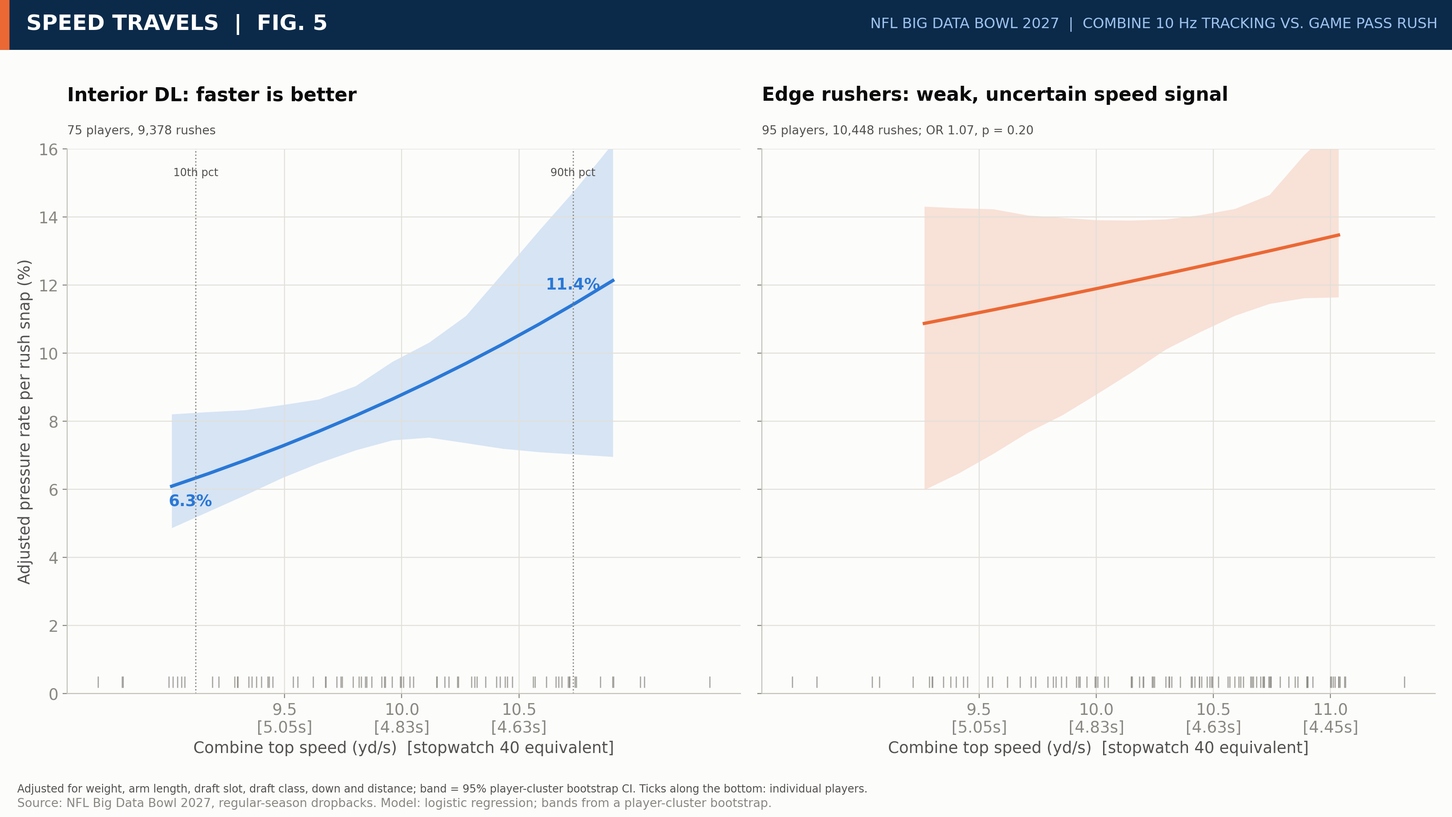
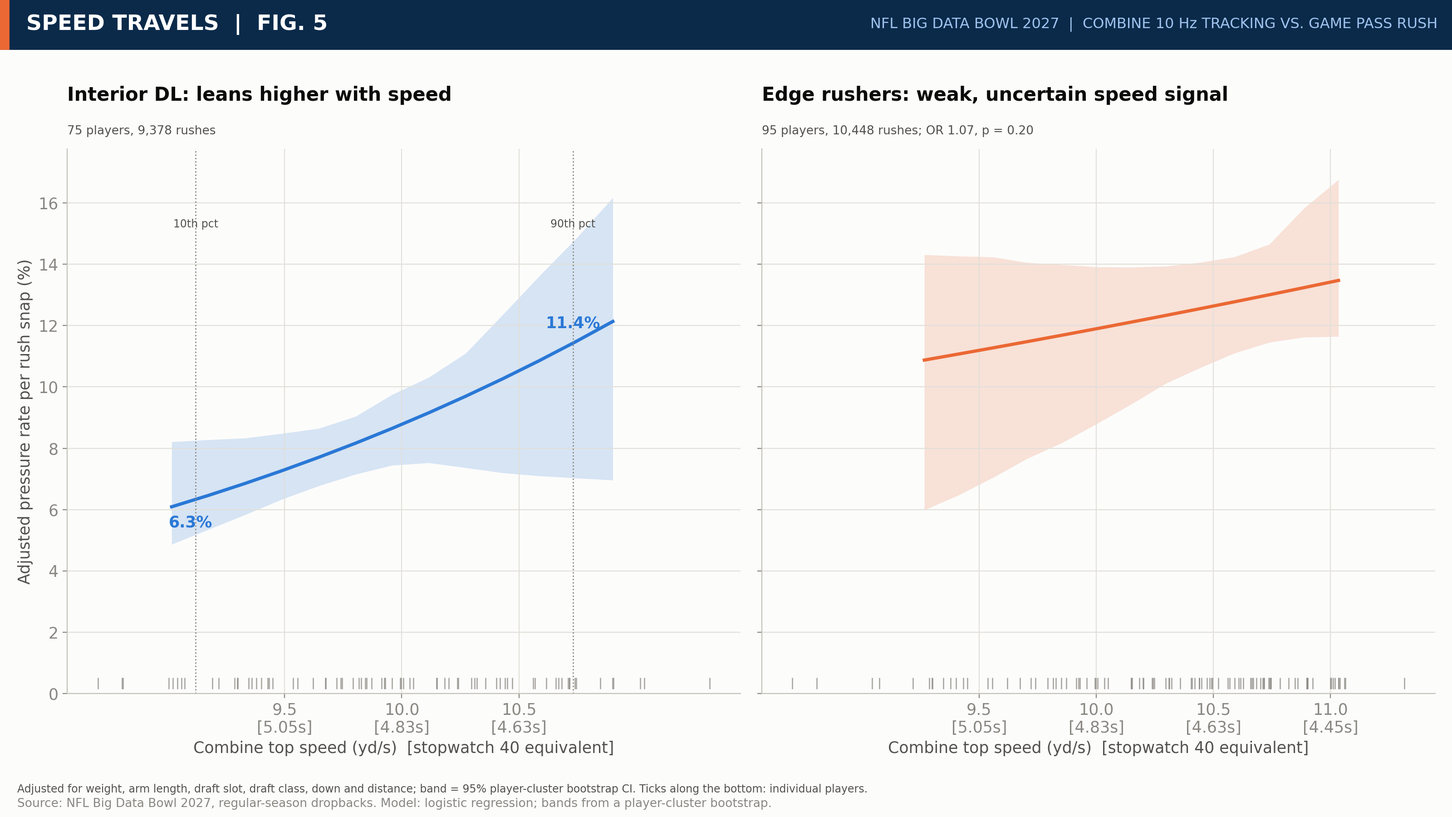
v29: get-off out-of-class test (E23, falsified, reported), consistent ratio bootstrap, fixes from third blind read
Claude-Session: https://claude.ai/code/session_01NYNpUw5TLCT8fUrXZ4q2c3

diff --git a/notebook/speed_travels.py b/notebook/speed_travels.py
@@ -789,12 +789,15 @@ try:
     bb_ = gi_.params[ip_].values; VV_ = gi_.cov_params().loc[ip_, ip_].values; W_ = float(bb_ @ np.linalg.solve(VV_, bb_))
     wc_["interaction_wald_p"] = float(_chi2.sf(W_, len(ip_))); wc_["interaction_df"] = len(ip_)
     # Pooled player-cluster bootstrap of the headline interior OR (same controls as the main model, plain logit per resample)
-    ids_p = IL.nfl_id.unique(); gp_ = {i: np.where(IL.nfl_id.values == i)[0] for i in ids_p}; rng_p = np.random.default_rng(29); bp_ = []
+    ids_p = IL.nfl_id.unique(); gp_ = {i: np.where(IL.nfl_id.values == i)[0] for i in ids_p}; rng_p = np.random.default_rng(29); bp_ = []; rq_ = []
     for _ in range(100 if FAST else 1000):
         Db = IL.iloc[np.concatenate([gp_[i] for i in rng_p.choice(ids_p, len(ids_p))])]
-        try: bp_.append(float(smf.logit(f"pres ~ vs + {b}", data=Db).fit(disp=0).params["vs"]))
+        try:
+            fb_ = smf.logit(f"pres ~ vs + {b}", data=Db).fit(disp=0); bp_.append(float(fb_.params["vs"]))
+            rq_.append(float(fb_.predict(Db.assign(vs=(q90 - 10.0) / 0.5)).mean() / fb_.predict(Db.assign(vs=(q10 - 10.0) / 0.5)).mean()))
         except Exception: pass
-    res["pooled_boot"] = dict(OR_lo=float(np.exp(np.percentile(bp_, 2.5))), OR_hi=float(np.exp(np.percentile(bp_, 97.5))), n=len(bp_), share_pos=float(np.mean(np.array(bp_) > 0)))
+    res["pooled_boot"] = dict(OR_lo=float(np.exp(np.percentile(bp_, 2.5))), OR_hi=float(np.exp(np.percentile(bp_, 97.5))), n=len(bp_), share_pos=float(np.mean(np.array(bp_) > 0)),
+                              ratio_lo=float(np.percentile(rq_, 2.5)), ratio_hi=float(np.percentile(rq_, 97.5)))
     print("pooled player bootstrap:", res["pooled_boot"])
     try:
         # Pre-specified continuous outcomes (E21): per-snap get-off time (primary) and 1-s displacement (secondary).
@@ -833,6 +836,26 @@ try:
             f_, s_ = (best[1], best[2]) if best[1].vpk > best[2].vpk else (best[2], best[1])
             res["getoff_pair"] = {k_: {c_: (v_.item() if hasattr(v_, "item") else v_) for c_, v_ in r_[["display_name", "nfl_position", "draft_round", "pick", "dy", "w", "vpk", "n", "go", "pres"]].items()} for k_, r_ in (("fast", f_), ("slow", s_))}
             res["getoff_pair"]["n_candidates"] = int(len(cand)); print("illustrative pair:", res["getoff_pair"])
+        # E23 (pre-registered): does speed predict get-off for a draft class the model never saw? Plus a survivorship check.
+        lg = {}; Dm2 = ILm.copy(); Dm2["miss"] = Dm2.player_get_off.isna().astype(int); lg["missing_share"] = float(Dm2.miss.mean())
+        try: lg["missing_or"] = orci(G(f"miss ~ vs + {b}", Dm2))
+        except Exception as e_m: fail("getoff_missing", e_m)
+        Dg = Dm2.dropna(subset=["player_get_off"]).reset_index(drop=True); dd_rows = []
+        for cls in sorted(Dg.dy.unique()):
+            tr_g, te_g = Dg[Dg.dy != cls], Dg[Dg.dy == cls]
+            f0_ = smf.ols(f"player_get_off ~ {b_noclass}", tr_g).fit(); f1_ = smf.ols(f"player_get_off ~ vs + {b_noclass}", tr_g).fit()
+            dd_rows.append(pd.DataFrame({"nfl_id": te_g.nfl_id.values, "dy": cls, "y": te_g.player_get_off.values, "p0": f0_.predict(te_g).values, "p1": f1_.predict(te_g).values}))
+        HO = pd.concat(dd_rows, ignore_index=True); HO["d"] = (HO.y - HO.p0) ** 2 - (HO.y - HO.p1) ** 2
+        lg["mse_gain"] = float(HO.d.mean()); lg["mse0"] = float(((HO.y - HO.p0) ** 2).mean()); lg["mse_gain_pct"] = float(100 * HO.d.mean() / ((HO.y - HO.p0) ** 2).mean())
+        ids_h = HO.nfl_id.unique(); gh_ = {i: np.where(HO.nfl_id.values == i)[0] for i in ids_h}; rng_h = np.random.default_rng(37); bh_ = []
+        dvals = HO.d.values
+        for _ in range(100 if FAST else 1000): bh_.append(float(dvals[np.concatenate([gh_[i] for i in rng_h.choice(ids_h, len(ids_h))])].mean()))
+        lg["mse_gain_ci"] = [float(np.percentile(bh_, 2.5)), float(np.percentile(bh_, 97.5))]; lg["mse_gain_pct_ci"] = [100 * x_ / lg["mse0"] for x_ in lg["mse_gain_ci"]]
+        lg["by_class"] = {str(int(c_)): float(g_.d.mean()) for c_, g_ in HO.groupby("dy")}
+        PH = HO.groupby("nfl_id").agg(n=("y", "size"), y=("y", "mean"), p0=("p0", "mean"), p1=("p1", "mean")); PH = PH[PH.n >= 50]
+        lg["player_rho0"] = float(spearmanr(PH.y, PH.p0)[0]); lg["player_rho1"] = float(spearmanr(PH.y, PH.p1)[0]); lg["player_n"] = int(len(PH))
+        gp_sd = gp[gp.n >= 100].go.std(); lg["between_player_sd_s"] = float(gp_sd); lg["n_players_100"] = int((gp.n >= 100).sum())
+        res["getoff_loco"] = lg; print("get-off out of class:", json.dumps(lg, indent=1, default=float))
         res["continuous_by_class"] = cbc; print("continuous outcomes by class:", json.dumps(cbc, indent=1, default=float))
     except Exception as e_c: fail("continuous_by_class", e_c)
     res["within_class"] = wc_; print(json.dumps(wc_, indent=1, default=float))
@@ -910,7 +933,7 @@ r, lo, hi = tr_["r_vpk_s10"]; ax[0].text(0.04, 0.95, f"within interior r = {tr_[
 headline(ax[0], "Top-end speed shows up in the rush", "Combine 40 top speed vs. in-game speed 1.0 s into a pass rush; dot size = game rushes")
 ax[1].scatter(dd_.d_s10, dd_.s_10, s=np.clip(dd_.n / 6, 14, 90), c=np.where(dd_.ipos > 0.5, BLUE, ORANGE), alpha=0.8, lw=0.8, edgecolor=SURF); ax[1].set_xlabel("Combine pass-rush drill: speed 1.0 s in (yd/s)")
 r, lo, hi = tr_["r_drill_s10"]; r_wo = tr_["r_drill_s10_trim"][0]; n_out = tr_["n_drill_outliers"]
-ax[1].text(0.97, 0.05, f"r = {r:.2f}  (95% CI {lo:.2f} to {hi:.2f})\nwithout {n_out} drill outlier(s) beyond 3 SD: r = {r_wo:.2f}\nn = {tr_['n_drill']} linemen", transform=ax[1].transAxes, ha="right", va="bottom", fontsize=10, fontweight="bold")
+ax[1].text(0.97, 0.05, f"r = {r:.2f}  (95% CI {lo:.2f} to {hi:.2f})\nwithout {n_out} drill outlier{'s' if n_out != 1 else ''} beyond 3 SD: r = {r_wo:.2f}\nn = {tr_['n_drill']} linemen", transform=ax[1].transAxes, ha="right", va="bottom", fontsize=10, fontweight="bold")
 headline(ax[1], "The drill's speed 1.0 s in tracks it more weakly", "Same in-game outcome vs. the Combine pass-rush drill's speed 1.0 s in")
 ax[1].legend(handles=[Line2D([0], [0], marker="o", ls="", color=BLUE, label="Interior DL"), Line2D([0], [0], marker="o", ls="", color=ORANGE, label="Edge")], loc="upper right"); fig.tight_layout(); save(fig, "fig3_translation.png")
 
@@ -950,9 +973,9 @@ dz = res["dose"]; co = res["forty_poly"]; fig, ax = plt.subplots(1, 2, figsize=(
 for a, lab, col in [(ax[0], "INT", BLUE), (ax[1], "EDGE", ORANGE)]:
     d = dz[lab]; g_ = np.array(d["grid"]); a.fill_between(g_, np.array(d["lo"]) * 100, np.array(d["hi"]) * 100, color=col, alpha=0.18, lw=0); a.plot(g_, np.array(d["mid"]) * 100, color=col, lw=2.6)
     a.plot(d["speeds"], np.full(len(d["speeds"]), 0.35), "|", color=MUTED, ms=9, alpha=0.7); a.set_xlabel("Combine top speed (yd/s)  [stopwatch 40 equivalent]")
-    tk = np.array([9.0, 9.5, 10.0, 10.5, 11.0]); tk = tk[(tk >= g_.min() - 0.01) & (tk <= g_.max() + 0.01)]; a.set_xticks(tk); a.set_xticklabels([f"{t:.1f}\n[{np.polyval(co, t):.2f}s]" for t in tk]); a.set_ylim(0, 16)
+    tk = np.array([9.0, 9.5, 10.0, 10.5, 11.0]); tk = tk[(tk >= g_.min() - 0.01) & (tk <= g_.max() + 0.01)]; a.set_xticks(tk); a.set_xticklabels([f"{t:.1f}\n[{np.polyval(co, t):.2f}s]" for t in tk]); a.set_ylim(0, max(16, max(max(dz[k_]["hi"]) for k_ in dz) * 100 + 1))
 ax[0].set_ylabel("Adjusted pressure rate per rush snap (%)"); nn = res["n"]; pq = res["p10_p90"]
-headline(ax[0], "Interior DL: faster is better", f"{nn['int_players']} players, {nn['int_snaps']:,} rushes"); headline(ax[1], "Edge rushers: weak, uncertain speed signal", f"{nn['edge_players']} players, {nn['edge_snaps']:,} rushes; OR {res['table1']['edge_pressure']['OR']:.2f}, p = {res['table1']['edge_pressure']['p']:.2f}")
+headline(ax[0], "Interior DL: leans higher with speed", f"{nn['int_players']} players, {nn['int_snaps']:,} rushes"); headline(ax[1], "Edge rushers: weak, uncertain speed signal", f"{nn['edge_players']} players, {nn['edge_snaps']:,} rushes; OR {res['table1']['edge_pressure']['OR']:.2f}, p = {res['table1']['edge_pressure']['p']:.2f}")
 [ax[0].axvline(v_, color=MUTED, lw=1, ls=":") for v_ in (pq["v10"], pq["v90"])]; ax[0].text(pq["v10"], 15.2, "10th pct", ha="center", fontsize=8.5, color=INK2); ax[0].text(pq["v90"], 15.2, "90th pct", ha="center", fontsize=8.5, color=INK2)
 ax[0].annotate(f"{pq['rate10']*100:.1f}%", (pq["v10"], pq["rate10"] * 100), xytext=(-4, -22), textcoords="offset points", color=BLUE, fontweight="bold", ha="center")
 ax[0].annotate(f"{pq['rate90']*100:.1f}%", (pq["v90"], pq["rate90"] * 100), xytext=(0, 12), textcoords="offset points", color=BLUE, fontweight="bold", ha="center")

diff --git a/writeup/fill_writeup.py b/writeup/fill_writeup.py
@@ -2,6 +2,7 @@
 Usage: python3 fill_writeup.py results.json template.md out.md
 """
 import json, re, sys, math
+import pandas as pd
 import numpy as np
 from pathlib import Path
 
@@ -104,6 +105,19 @@ else:
     tok["PAIR_SENTENCE"] = ""
 _corr_keys = [k for k in res["robust"] if k.startswith(("IPW", "Heckman", "Sensor-cleaned", "Context-adjusted"))]
 tok["CORR_RANGE"] = f"{min(res['robust'][k]['OR'] for k in _corr_keys):.2f} and {max(res['robust'][k]['OR'] for k in _corr_keys):.2f}"
+_pbx = res.get("pooled_boot") or {}
+tok["RATIO_BOOT"] = f"{_pbx['ratio_lo']:.2f} to {_pbx['ratio_hi']:.2f}" if "ratio_lo" in _pbx else f"{res['p10_p90']['ratio_lo']:.2f} to {res['p10_p90']['ratio_hi']:.2f}"
+_gl = res.get("getoff_loco"); _gp = pd.DataFrame(res.get("getoff_players") or [])
+if _gl and _cg:
+    _ms = -_cg["all"]["b"] * _cg["all"]["raw_sd"] * 1000; tok["GETOFF_BSD"] = f"{_gl['between_player_sd_s']:.3f}"; tok["GETOFF_SHARE"] = f"{100 * _ms / 1000 / _gl['between_player_sd_s']:.0f}"
+    _lo, _hi = _gl["mse_gain_pct_ci"]; _pass = _lo > 0
+    tok["GETOFF_LOCO_SENTENCE"] = ((f"adding speed cuts held-out get-off error by {_gl['mse_gain_pct']:.1f}% (whole-player bootstrap {_lo:.1f}% to {_hi:.1f}%), "
+                                    if _pass else f"adding speed changes held-out get-off prediction error by {-_gl['mse_gain_pct']:+.1f}% (positive = worse; whole-player bootstrap {-_hi:+.1f}% to {-_lo:+.1f}%), ")
+                                   + f"plausibly because snap-to-snap noise swamps a {_ms:.0f} ms shift (a hypothesis we did not test); at the player level the rank correlation between predicted and actual get-off moves from {_gl['player_rho0']:.2f} to {_gl['player_rho1']:.2f} ({_gl['player_n']} held-out players with 50+ rushes; exploratory, no interval).")
+    tok["GETOFF_HOLD"] = "and for draft classes the model never saw" if _pass else "in the pooled data, though adding it does not improve get-off predictions for a held-out draft class"
+    tok["GETOFF_MISS_SENTENCE"] = ""
+else:
+    tok.update(GETOFF_BSD="", GETOFF_SHARE="", GETOFF_LOCO_SENTENCE="", GETOFF_HOLD="", GETOFF_MISS_SENTENCE="")
 pb_ = res.get("pooled_boot"); tok["BOOTCI"] = (f"; resampling whole players, {pb_['OR_lo']:.2f} to {pb_['OR_hi']:.2f}" if pb_ else "")
 tok["PERM"] = "< 0.001" if res["perm_p"] < 0.001 else f"= {res['perm_p']:.3f}"
 top = res["eb"]["interior"]["top"][:5]
@@ -161,7 +175,7 @@ if lc:
         # which held-out class leaves a null fit on the others?
         nulls = [(c_, v_["train_or"]) for c_, v_ in lc["by_class"].items() if v_["train_or"]["lo"] <= 1.0]
         others = lambda c_: " and ".join(sorted(k for k in lc["by_class"] if k != c_))
-        s_ = (f"The harder test fails: hiding one whole draft class at a time, adding speed does not improve predictions for the hidden class "
+        s_ = (f"adding speed does not improve predictions for the hidden class "
               f"(log-loss gain {lc['dll'] * 1000:+.2f} x 10^-3, 95% CI {lo_ * 1000:+.2f} to {hi_ * 1000:+.2f}; rank correlation {lc['rho0']:.2f} without speed, {lc['rho1']:.2f} with).")
         wc = res.get("within_class")
         if wc and nulls:

diff --git a/writeup/writeup.md b/writeup/writeup.md
@@ -2,7 +2,7 @@
 
 **Track:** Open. The attached public notebook rebuilds every number and figure from the raw competition files; code, figures and results are mirrored at github.com/tdogukan470-jpg/nfl-bdb-2027.
 
-**Bottom line for a front office.** (1) The 40's top speed is the one Combine movement number that reaches the field: it repeats almost perfectly and shows up in game speed, while drill first-step numbers repeat poorly and track game speed weakly. (2) Faster interior linemen cross the line of scrimmage sooner: about 36 ms per +0.5 yd/s of top speed, a link that holds when whole players are resampled (Fig. 4). (3) They also generate more pressure (6.3% to 11.4% from the 10th to 90th speed percentile), but that gain is borderline once whole players are resampled (0.99 to 1.42) and has not held out of class, so use it as a tiebreaker, not a rule. (4) For edge rushers, offensive linemen and receivers the 40 shows no consistent effect beyond size and draft slot.
+**Bottom line for a front office.** (1) The 40's top speed is the one Combine movement number that reaches the field: it repeats almost perfectly and shows up in game speed, while drill first-step numbers repeat poorly and track game speed weakly. (2) Faster interior linemen cross the line of scrimmage sooner: about 36 ms per +0.5 yd/s of top speed, a link that holds when whole players are resampled in the pooled data, though adding it does not improve get-off predictions for a held-out draft class (Fig. 4). (3) They also generate more pressure (6.3% to 11.4% from the 10th to 90th speed percentile), but that gain is borderline once whole players are resampled (0.99 to 1.42) and has not held out of class, so use it as a tiebreaker, not a rule. (4) For edge rushers, offensive linemen and receivers the 40 shows no consistent effect beyond size and draft slot.
 
 ## 1. The question
 
@@ -22,20 +22,20 @@ From each 10 Hz 40-yard trace we rebuilt start of motion, peak speed over 30 yd,
 ![Fig. 2: Reliability of Combine metrics (40 vs drill)](https://raw.githubusercontent.com/tdogukan470-jpg/nfl-bdb-2027/main/figures/fig2_reliability.png)
 *Figure 2. Test-retest reliability from repeat attempts (375 players with two 40s, 106 with two drill reps). Top speed repeats; first-step metrics do not.*
 
-## 3. Drill numbers travel weakly (Fig. 3)
+## 3. Drill first-step numbers travel weakly (Fig. 3)
 
-For 59 linemen with both drill traces and game tracking, the 40's top speed tracks game speed one second after the snap within each group (interior r = 0.39, edge r = 0.37; pooled 0.77, inflated by the interior-edge gap). The drill's speed one second in tracks it weakly: r = 0.13 (CI -0.22 to 0.52), or 0.37 (0.17 to 0.57) without one outlier trace, against 0.77 for the 40 on the same pooled basis. Trust the 40's speed trace, not single-attempt first-step numbers.
+For 59 linemen with both drill traces and game tracking, the 40's top speed tracks game speed one second after the snap within each group (interior r = 0.39, edge r = 0.37; pooled 0.77, inflated by the interior-edge gap). The drill's speed one second in tracks it weakly: r = 0.13 (CI -0.22 to 0.52), or 0.37 (0.17 to 0.57) without one outlier trace, against 0.77 for the 40 on the same pooled basis. The drill's peak speed does better (r = 0.47, repeatability 0.64), but that is top speed again. Trust top speed, not single-attempt first-step numbers.
 
 ![Fig. 3: Does Combine speed translate to in-game speed?](https://raw.githubusercontent.com/tdogukan470-jpg/nfl-bdb-2027/main/figures/fig3_translation.png)
 *Figure 3. Combine measures against in-game speed one second after the snap: the 40's top speed (left) carries over, the pass-rush drill's speed 1.0 s in (right) tracks it more weakly, and its r depends on one outlier. Dot size: game rushes.*
 
 ## 4. Method
 
-From 2023 to 2025 regular-season tracking we computed, per snap, get-off (seconds from the snap until the rusher crosses the line of scrimmage) and pressure for pass rushers, pressure allowed for offensive linemen, and separation at pass-forward for WR/TE adjusted for route and coverage. The Combine feature is mean top speed across a player's 40 attempts, in units of +0.5 yd/s, about 0.2 s on the stopwatch at a lineman's speed. Models are GEE with standard errors clustered by player [8], controlling for weight, arm length, log draft slot, draft class and game situation. Speed and weight correlate at -0.83 among interior linemen, so size is always in the model. Because a few heavy-usage players can make clustered intervals too narrow, every headline estimate is also re-checked by resampling whole players.
+From 2023 to 2025 regular-season tracking we computed, per snap, get-off (seconds from the snap until the rusher crosses the line of scrimmage) and pressure for pass rushers, pressure allowed for offensive linemen, and separation at pass-forward for WR/TE adjusted for route and coverage. The Combine feature is mean top speed across a player's 40 attempts, in units of +0.5 yd/s, about 0.2 s on the stopwatch at a lineman's speed. Models are GEE with standard errors clustered by player [8], controlling for weight, arm length, log draft slot, draft class, down and distance. Speed and weight correlate at -0.83 among interior linemen, so size is always in the model. Because a few heavy-usage players can make clustered intervals too narrow, every headline estimate is also re-checked by resampling whole players.
 
 ## 5. Where speed shows up first: the get-off
 
-For 75 interior linemen and 9,378 dropback rushes, each +0.5 yd/s of Combine top speed shortens get-off by 36 ms (0.14 SD; whole-player bootstrap 20 to 54 ms). The sign is the same in all three draft classes, though each class alone is imprecise (Fig. 4). This is the most direct Combine-to-game link in the data: speed measured in February shows up in the first second of an NFL rush.
+For 75 interior linemen and 9,378 dropback rushes, each +0.5 yd/s of Combine top speed shortens get-off by 36 ms (0.14 SD; whole-player bootstrap 20 to 54 ms), about 47% of the spread in average get-off between interior players (SD 0.077 s among the 27 with 100+ rushes). The sign is the same in all three draft classes, though each class alone is imprecise (Fig. 4). This is the most direct Combine-to-game link in the data: speed measured in February shows up in the first second of an NFL rush.
 
 ![Fig. 4: Faster interior linemen cross the line sooner](https://raw.githubusercontent.com/tdogukan470-jpg/nfl-bdb-2027/main/figures/fig4_getoff.png)
 *Figure 4. Left: each interior lineman's raw mean get-off against his Combine top speed (players with 50+ rushes; unadjusted, so lighter players' speed advantage is mixed in; circled: the illustrative pair below). Right: the adjusted effect in milliseconds, pooled and by class, with clustered-SE (blue) and whole-player bootstrap (orange) intervals.*
@@ -66,20 +66,20 @@ Each +0.5 yd/s raises the odds of pressure by 22% (odds ratio, OR, 1.22; cluster
 Correcting for who reached the field, for game context and for sensor noise leaves the estimate between 1.17 and 1.23 (Appendix A1 to A3).
 
 ![Fig. 6: Robustness checks with clustered and player-bootstrap intervals](https://raw.githubusercontent.com/tdogukan470-jpg/nfl-bdb-2027/main/figures/fig6_robust.png)
-*Figure 6. The interior effect under every specification: fixed effects, outcome definitions, seasons, sensor cleaning, selection correction and the context model, with clustered-SE intervals; the orange bar resamples whole players. 1.0 is no effect.*
+*Figure 6. The interior pressure effect under the baseline plus 22 alternative specifications: fixed effects, outcome definitions, seasons, sensor cleaning, selection correction and the context model, with clustered-SE intervals; the orange bar resamples whole players. 1.0 is no effect.*
 
 **Top speed, not burst.** Top speed carries the effect (OR 1.21) and burst carries none (OR 1.03, p = 0.54); the stopwatch 10-yard split adds nothing once the 40 is in (p = 0.35).
 
 ## 7. Does it hold for a new class?
 
-A scout needs the finding to hold for the next draft. The harder test fails: hiding one whole draft class at a time, adding speed does not improve predictions for the hidden class (log-loss gain -0.48 x 10^-3, 95% CI -1.26 to +0.40; rank correlation 0.32 without speed, 0.25 with). Per class (Fig. 7) the pressure estimate exceeds 1 (2023 1.27, 2024 1.11, 2025 1.24; class difference p = 0.38), but only 2023's clustered interval excludes 1, and its player bootstrap (0.98 to 1.60) touches 1; without 2023, OR 1.09 [0.75, 1.57]. The data cannot separate a common effect from a 2023-only one. A season split (fit through 2024, predict 2025) is mildly positive but its interval also includes zero (Appendix A6).
+A scout needs the finding to hold for the next draft, so we hide one whole draft class at a time, fit on the other two and score the hidden class. **In plain terms: for a class the model had not seen, knowing speed did not measurably improve predictions of either pressure or per-snap get-off.** Pressure: adding speed does not improve predictions for the hidden class (log-loss gain -0.48 x 10^-3, 95% CI -1.26 to +0.40; rank correlation 0.32 without speed, 0.25 with). Per class (Fig. 7) the pressure estimate exceeds 1 (2023 1.27, 2024 1.11, 2025 1.24; class difference p = 0.38), but only 2023's clustered interval excludes 1, and its player bootstrap (0.98 to 1.60) touches 1; without 2023, OR 1.09 [0.75, 1.57]. The data cannot separate a common effect from a 2023-only one. Get-off: adding speed changes held-out get-off prediction error by +0.4% (positive = worse; whole-player bootstrap -1.0% to +1.5%), plausibly because snap-to-snap noise swamps a 36 ms shift (a hypothesis we did not test); at the player level the rank correlation between predicted and actual get-off moves from 0.61 to 0.73 (33 held-out players with 50+ rushes; exploratory, no interval). A season split (fit through 2024, predict 2025) is mildly positive but its interval also includes zero (Appendix A6).
 
 ![Fig. 7: Interior pressure effect by draft class](https://raw.githubusercontent.com/tdogukan470-jpg/nfl-bdb-2027/main/figures/fig7_byclass.png)
 *Figure 7. Interior pressure effect fit separately by draft class. Blue: clustered-SE intervals; orange: whole-player bootstrap. Every class leans positive; none is precise once whole players are resampled (2023 is the tightest).*
 
 ## 8. How a team uses this
 
-**Table 2. Draft-cycle and deployment decision matrix. POE is percentage points of pressure per 100 rushes above context expectation.**
+**Table 2. Exploratory draft-cycle and deployment matrix (small cells; cut-offs scanned, see note). POE is percentage points of pressure per 100 rushes above context expectation.**
 
 | Prospect profile | Evidence | Action |
 |---|---|---|
@@ -89,11 +89,11 @@ A scout needs the finding to hold for the next draft. The harder test fails: hid
 | Interior up to 294 lb (the lightest band includes linebackers and DBs aligned inside) | Fast-minus-slow POE +2.3 [-4.3, +11.9] (<= 263 lb) and +3.1 [+0.6, +5.3] (264 to 294 lb) | Weigh the split here; the 264 to 294 lb gap excludes 0 |
 | Interior 297+ lb (nose types) | Fast-minus-slow +0.5 [-2.4, +2.4] | No gap; use other traits |
 | Fast edge, efficient drill path (16 players) | POE +1.5 [-1.8, +3.3] | No clear gain from speed; judge on tape |
-| Fast edge, inefficient drill path (18 players) | POE -0.8 [-3.8, +0.5]; wide -1.2, tight -1.7 (exploratory) | Wider alignment did not help |
+| Fast edge, inefficient drill path (18 players) | POE -0.8 [-3.8, +0.5]; wide -1.2, tight -1.7 (exploratory) | Wide and tight alignment differ little |
 | Slow edge, efficient / inefficient path (18 / 15 players) | POE -2.2 [-4.4, -0.4] and -3.0 [-6.2, +0.2] | Below the fast cells; edge speed may help a little (OR CI includes 1) |
 | OL, WR/TE | No detectable speed effect | Do not pay for speed alone |
 
-Edge cells use the drill's path efficiency, which does not predict pressure on its own (interaction p = 0.54), so judge path directness on tape. Weight bands proxy 3-tech versus nose. The split cut-off was chosen from 7 scanned values (2.01 to 2.27 s); only 2.12 s gives a fast-minus-slow gap whose interval excludes 0, so the interior rows are exploratory.
+Edge cells use the drill's path efficiency, which does not predict pressure on its own (main effect p = 0.44; speed x path interaction p = 0.54), so judge path directness on tape. Weight bands proxy 3-tech versus nose. The split cut-off was chosen from 7 scanned values (2.01 to 2.27 s); only 2.12 s gives a fast-minus-slow gap whose interval excludes 0, so the interior rows are exploratory.
 
 **In practice.** (1) Read speed off the 40's top speed (tracking or stopwatch), not the drill's first step. (2) Among interior prospects of similar weight and draft range, expect the faster one to cross the line about 36 ms sooner per 0.5 yd/s; treat any pressure edge as a tiebreaker. (3) *Proposed, not tested here:* get-off is logged on every rush, so a rookie's early-season get-off is a quick check on whether his Combine speed is reaching the field, long before his pressure rate settles.
 
@@ -102,12 +102,13 @@ Edge cells use the drill's path efficiency, which does not predict pressure on i
 - Observational data: no causal claim beyond the mediation assumptions in Appendix A4.
 - 75 interior and 95 edge players; decision-matrix cells are small.
 - No single draft class pins down the pressure effect once whole players are resampled.
+- The rush sample is defined by a recorded get-off, so rushes where a lineman never crossed the line are not in it; we could not test whether speed predicts that.
 - No quarterback tracking, time to throw or line-up depth, so double-team and alignment are proxies.
 - Edge and OL nulls mean no detectable linear speed effect, not zero.
 
 ## 10. Takeaway
 
-At 10 Hz the 40 is a top-speed test, and its clearest game footprint is a quicker interior get-off. The pressure gain that follows (about 1.8x from slow to fast) is not yet proven out of class, so it should guide where scouts look, not replace the tape.
+At 10 Hz the 40 is a top-speed test, and its clearest game footprint is a quicker interior get-off. The pressure gain that follows (about 1.8x from slow to fast, whole-player bootstrap 0.96 to 2.75) is not yet proven out of class, so it should guide where scouts look, not replace the tape.
 
 ## Appendix A: robustness details
 

diff --git a/writeup/writeup_template.md b/writeup/writeup_template.md
@@ -2,7 +2,7 @@
 
 **Track:** Open. The attached public notebook rebuilds every number and figure from the raw competition files; code, figures and results are mirrored at github.com/tdogukan470-jpg/nfl-bdb-2027.
 
-**Bottom line for a front office.** (1) The 40's top speed is the one Combine movement number that reaches the field: it repeats almost perfectly and shows up in game speed, while drill first-step numbers repeat poorly and track game speed weakly. (2) Faster interior linemen cross the line of scrimmage sooner: about {GETOFF_MS} ms per +0.5 yd/s of top speed, a link that holds when whole players are resampled (Fig. 4). (3) They also generate more pressure ({PCT1:p10_p90.rate10}% to {PCT1:p10_p90.rate90}% from the 10th to 90th speed percentile), but that gain is borderline once whole players are resampled ({F2:pooled_boot.OR_lo} to {F2:pooled_boot.OR_hi}) and has not held out of class, so use it as a tiebreaker, not a rule. (4) For edge rushers, offensive linemen and receivers the 40 shows no consistent effect beyond size and draft slot.
+**Bottom line for a front office.** (1) The 40's top speed is the one Combine movement number that reaches the field: it repeats almost perfectly and shows up in game speed, while drill first-step numbers repeat poorly and track game speed weakly. (2) Faster interior linemen cross the line of scrimmage sooner: about {GETOFF_MS} ms per +0.5 yd/s of top speed, a link that holds when whole players are resampled {GETOFF_HOLD} (Fig. 4). (3) They also generate more pressure ({PCT1:p10_p90.rate10}% to {PCT1:p10_p90.rate90}% from the 10th to 90th speed percentile), but that gain is borderline once whole players are resampled ({F2:pooled_boot.OR_lo} to {F2:pooled_boot.OR_hi}) and has not held out of class, so use it as a tiebreaker, not a rule. (4) For edge rushers, offensive linemen and receivers the 40 shows no consistent effect beyond size and draft slot.
 
 ## 1. The question
 
@@ -22,20 +22,20 @@ From each 10 Hz 40-yard trace we rebuilt start of motion, peak speed over 30 yd,
 ![Fig. 2: Reliability of Combine metrics (40 vs drill)]({IMG}fig2_reliability.png)
 *Figure 2. Test-retest reliability from repeat attempts ({N:reliability_n.forty} players with two 40s, {N:reliability_n.prd} with two drill reps). Top speed repeats; first-step metrics do not.*
 
-## 3. Drill numbers travel weakly (Fig. 3)
+## 3. Drill first-step numbers travel weakly (Fig. 3)
 
-For {N:translate.n_game} linemen with both drill traces and game tracking, the 40's top speed tracks game speed one second after the snap within each group (interior r = {F2:translate.within_interior.r_vpk_s10.0}, edge r = {F2:translate.within_edge.r_vpk_s10.0}; pooled {F2:translate.r_vpk_s10.0}, inflated by the interior-edge gap). The drill's speed one second in tracks it weakly: r = {F2:translate.r_drill_s10.0} (CI {F2:translate.r_drill_s10.1} to {F2:translate.r_drill_s10.2}), or {F2:translate.r_drill_s10_trim.0} ({F2:translate.r_drill_s10_trim.1} to {F2:translate.r_drill_s10_trim.2}) without one outlier trace, against {F2:translate.r_vpk_s10.0} for the 40 on the same pooled basis. Trust the 40's speed trace, not single-attempt first-step numbers.
+For {N:translate.n_game} linemen with both drill traces and game tracking, the 40's top speed tracks game speed one second after the snap within each group (interior r = {F2:translate.within_interior.r_vpk_s10.0}, edge r = {F2:translate.within_edge.r_vpk_s10.0}; pooled {F2:translate.r_vpk_s10.0}, inflated by the interior-edge gap). The drill's speed one second in tracks it weakly: r = {F2:translate.r_drill_s10.0} (CI {F2:translate.r_drill_s10.1} to {F2:translate.r_drill_s10.2}), or {F2:translate.r_drill_s10_trim.0} ({F2:translate.r_drill_s10_trim.1} to {F2:translate.r_drill_s10_trim.2}) without one outlier trace, against {F2:translate.r_vpk_s10.0} for the 40 on the same pooled basis. The drill's peak speed does better (r = {F2:translate.r_drill_speak.0}, repeatability {REL:Pass-rush drill: peak speed}), but that is top speed again. Trust top speed, not single-attempt first-step numbers.
 
 ![Fig. 3: Does Combine speed translate to in-game speed?]({IMG}fig3_translation.png)
 *Figure 3. Combine measures against in-game speed one second after the snap: the 40's top speed (left) carries over, the pass-rush drill's speed 1.0 s in (right) tracks it more weakly, and its r depends on one outlier. Dot size: game rushes.*
 
 ## 4. Method
 
-From 2023 to 2025 regular-season tracking we computed, per snap, get-off (seconds from the snap until the rusher crosses the line of scrimmage) and pressure for pass rushers, pressure allowed for offensive linemen, and separation at pass-forward for WR/TE adjusted for route and coverage. The Combine feature is mean top speed across a player's 40 attempts, in units of +0.5 yd/s, about {STOPWATCH} s on the stopwatch at a lineman's speed. Models are GEE with standard errors clustered by player [8], controlling for weight, arm length, log draft slot, draft class and game situation. Speed and weight correlate at {F2:interior_corr_weight_speed} among interior linemen, so size is always in the model. Because a few heavy-usage players can make clustered intervals too narrow, every headline estimate is also re-checked by resampling whole players.
+From 2023 to 2025 regular-season tracking we computed, per snap, get-off (seconds from the snap until the rusher crosses the line of scrimmage) and pressure for pass rushers, pressure allowed for offensive linemen, and separation at pass-forward for WR/TE adjusted for route and coverage. The Combine feature is mean top speed across a player's 40 attempts, in units of +0.5 yd/s, about {STOPWATCH} s on the stopwatch at a lineman's speed. Models are GEE with standard errors clustered by player [8], controlling for weight, arm length, log draft slot, draft class, down and distance. Speed and weight correlate at {F2:interior_corr_weight_speed} among interior linemen, so size is always in the model. Because a few heavy-usage players can make clustered intervals too narrow, every headline estimate is also re-checked by resampling whole players.
 
 ## 5. Where speed shows up first: the get-off
 
-For {N:n.int_players} interior linemen and {N:n.int_snaps} dropback rushes, each +0.5 yd/s of Combine top speed shortens get-off by {GETOFF_MS} ms ({GETOFF_SD} SD; whole-player bootstrap {GETOFF_MS_BOOT} ms). The sign is the same in all three draft classes, though each class alone is imprecise (Fig. 4). This is the most direct Combine-to-game link in the data: speed measured in February shows up in the first second of an NFL rush.
+For {N:n.int_players} interior linemen and {N:n.int_snaps} dropback rushes, each +0.5 yd/s of Combine top speed shortens get-off by {GETOFF_MS} ms ({GETOFF_SD} SD; whole-player bootstrap {GETOFF_MS_BOOT} ms), about {GETOFF_SHARE}% of the spread in average get-off between interior players (SD {GETOFF_BSD} s among the {N:getoff_loco.n_players_100} with 100+ rushes). The sign is the same in all three draft classes, though each class alone is imprecise (Fig. 4). This is the most direct Combine-to-game link in the data: speed measured in February shows up in the first second of an NFL rush.
 
 ![Fig. 4: Faster interior linemen cross the line sooner]({IMG}fig4_getoff.png)
 *Figure 4. Left: each interior lineman's raw mean get-off against his Combine top speed (players with 50+ rushes; unadjusted, so lighter players' speed advantage is mixed in; circled: the illustrative pair below). Right: the adjusted effect in milliseconds, pooled and by class, with clustered-SE (blue) and whole-player bootstrap (orange) intervals.*
@@ -66,20 +66,20 @@ Each +0.5 yd/s raises the odds of pressure by {ORPCT:table1.int_pressure}% (odds
 Correcting for who reached the field, for game context and for sensor noise leaves the estimate between {CORR_RANGE} (Appendix A1 to A3).
 
 ![Fig. 6: Robustness checks with clustered and player-bootstrap intervals]({IMG}fig6_robust.png)
-*Figure 6. The interior effect under every specification: fixed effects, outcome definitions, seasons, sensor cleaning, selection correction and the context model, with clustered-SE intervals; the orange bar resamples whole players. 1.0 is no effect.*
+*Figure 6. The interior pressure effect under the baseline plus {N_RB} alternative specifications: fixed effects, outcome definitions, seasons, sensor cleaning, selection correction and the context model, with clustered-SE intervals; the orange bar resamples whole players. 1.0 is no effect.*
 
 **Top speed, not burst.** Top speed carries the effect (OR {OR:decomp.top}) and burst carries none (OR {OR:decomp.burst}, p = {P2:decomp.burst.p}); the stopwatch 10-yard split adds nothing once the 40 is in (p = {P2:decomp_stopwatch.ten.p}).
 
 ## 7. Does it hold for a new class?
 
-A scout needs the finding to hold for the next draft. {LOCO_SENTENCE} A season split (fit through 2024, predict 2025) is mildly positive but its interval also includes zero (Appendix A6).
+A scout needs the finding to hold for the next draft, so we hide one whole draft class at a time, fit on the other two and score the hidden class. **In plain terms: for a class the model had not seen, knowing speed did not measurably improve predictions of either pressure or per-snap get-off.** Pressure: {LOCO_SENTENCE} Get-off: {GETOFF_LOCO_SENTENCE} A season split (fit through 2024, predict 2025) is mildly positive but its interval also includes zero (Appendix A6).
 
 ![Fig. 7: Interior pressure effect by draft class]({IMG}fig7_byclass.png)
 *Figure 7. Interior pressure effect fit separately by draft class. Blue: clustered-SE intervals; orange: whole-player bootstrap. Every class leans positive; none is precise once whole players are resampled (2023 is the tightest).*
 
 ## 8. How a team uses this
 
-**Table 2. Draft-cycle and deployment decision matrix. POE is percentage points of pressure per 100 rushes above context expectation.**
+**Table 2. Exploratory draft-cycle and deployment matrix (small cells; cut-offs scanned, see note). POE is percentage points of pressure per 100 rushes above context expectation.**
 
 | Prospect profile | Evidence | Action |
 |---|---|---|
@@ -89,11 +89,11 @@ A scout needs the finding to hold for the next draft. {LOCO_SENTENCE} A season s
 | Interior up to {W2} lb (the lightest band includes linebackers and DBs aligned inside) | Fast-minus-slow POE {GAP_LIGHT_CI} (<= {W1} lb) and {GAP_MID_CI} ({W1P} to {W2} lb) | {LIGHT_ACTION} |
 | Interior {W2P}+ lb (nose types) | Fast-minus-slow {GAP_HEAVY} | No gap; use other traits |
 | Fast edge, efficient drill path ({N_FE} players) | POE {POE_FE} | No clear gain from speed; judge on tape |
-| Fast edge, inefficient drill path ({N_FI} players) | POE {POE_FI}; wide {POE_FI_W}, tight {POE_FI_T} (exploratory) | Wider alignment did not help |
+| Fast edge, inefficient drill path ({N_FI} players) | POE {POE_FI}; wide {POE_FI_W}, tight {POE_FI_T} (exploratory) | Wide and tight alignment differ little |
 | Slow edge, efficient / inefficient path ({N_SE} / {N_SI} players) | POE {POE_SE} and {POE_SI} | Below the fast cells; edge speed may help a little (OR CI includes 1) |
 | OL, WR/TE | No detectable speed effect | Do not pay for speed alone |
 
-Edge cells use the drill's path efficiency, which does not predict pressure on its own (interaction p = {P2:matrix.edge_interaction.p}), so judge path directness on tape. Weight bands proxy 3-tech versus nose. {CUTSCAN}
+Edge cells use the drill's path efficiency, which does not predict pressure on its own (main effect p = {P2:matrix.edge_main_pez.p}; speed x path interaction p = {P2:matrix.edge_interaction.p}), so judge path directness on tape. Weight bands proxy 3-tech versus nose. {CUTSCAN}
 
 **In practice.** (1) Read speed off the 40's top speed (tracking or stopwatch), not the drill's first step. (2) Among interior prospects of similar weight and draft range, expect the faster one to cross the line about {GETOFF_MS} ms sooner per 0.5 yd/s; treat any pressure edge as a tiebreaker. (3) *Proposed, not tested here:* get-off is logged on every rush, so a rookie's early-season get-off is a quick check on whether his Combine speed is reaching the field, long before his pressure rate settles.
 
@@ -102,12 +102,13 @@ Edge cells use the drill's path efficiency, which does not predict pressure on i
 - Observational data: no causal claim beyond the mediation assumptions in Appendix A4.
 - {N:n.int_players} interior and {N:n.edge_players} edge players; decision-matrix cells are small.
 - No single draft class pins down the pressure effect once whole players are resampled.
+- The rush sample is defined by a recorded get-off, so rushes where a lineman never crossed the line are not in it; we could not test whether speed predicts that.
 - No quarterback tracking, time to throw or line-up depth, so double-team and alignment are proxies.
 - Edge and OL nulls mean no detectable linear speed effect, not zero.
 
 ## 10. Takeaway
 
-At 10 Hz the 40 is a top-speed test, and its clearest game footprint is a quicker interior get-off. The pressure gain that follows (about {F1:p10_p90.ratio}x from slow to fast) is not yet proven out of class, so it should guide where scouts look, not replace the tape.
+At 10 Hz the 40 is a top-speed test, and its clearest game footprint is a quicker interior get-off. The pressure gain that follows (about {F1:p10_p90.ratio}x from slow to fast, whole-player bootstrap {RATIO_BOOT}) is not yet proven out of class, so it should guide where scouts look, not replace the tape.
 
 ## Appendix A: robustness details
 

diff --git a/README.md b/README.md
@@ -7,7 +7,7 @@ Entry for the Kaggle **NFL Big Data Bowl 2027** (Open track) by Doğukan Turan.
 
 ## Summary
 
-At 10 Hz the 40-yard dash is a top-speed test (tracking peak speed vs stopwatch time: r = -0.98). For **interior defensive linemen** (75 players, 9,378 regular-season dropback rushes) each +0.5 yd/s of Combine top speed raises the odds of generating pressure by 22% (OR 1.22, 95% CI 1.12 to 1.34; resampling whole players, 0.99 to 1.42), with weight, arm length, draft slot, draft class, down and distance held fixed. From the 10th to the 90th percentile of speed the adjusted pressure rate moves from 6.3% to 11.4%. The effect survives sensor cleaning (Savitzky-Golay and a 2.5 g limiter), inverse-probability weighting and a Heckman-type control function for selection into the NFL, and a cross-validated expected-pressure context model (POE OR 1.22); a Beta-Binomial shrinkage check is supportive (likelihood-ratio p = 0.003) but its player bootstrap interval (0.93 to 1.34) includes 1. Of 22 robustness checks, only team fixed effects, sacks and the 2024 season alone have intervals touching 1.0. **Out of class, the effect does not hold:** The harder test fails: hiding one whole draft class at a time, adding speed does not improve predictions for the hidden class (log-loss gain -0.48 x 10^-3, 95% CI -1.26 to +0.40; rank correlation 0.32 without speed, 0.25 with). Per class (Fig. 6) the estimate exceeds 1 (2023 1.27, 2024 1.11, 2025 1.24; class difference p = 0.38), only 2023's clustered interval excludes 1, and its player bootstrap (0.98 to 1.60) touches 1; without 2023, OR 1.09 [0.75, 1.57]. The data cannot separate a common effect from a 2023-only one. Imai-Keele-Tingley mediation puts 20% (9% to 43%) of the effect through a faster get-off. **Edge rushers, offensive linemen and WR/TE show no consistent speed effect** (one edge class, 2024, alone gives OR 1.39, player bootstrap 0.90 to 2.03). Speed shortens interior get-off (seconds from the snap until the rusher crosses the line of scrimmage) by 36 ms per +0.5 yd/s (0.14 SD; player bootstrap 20 to 54 ms), the most robust Combine-to-game link in the data. Drill "first-step" numbers have test-retest reliability of 0.36 to 0.54 and track game speed weakly (r = 0.13, or 0.37 without one outlier trace, against 0.77 for the 40).
+At 10 Hz the 40-yard dash is a top-speed test (tracking peak speed vs stopwatch time: r = -0.98). For **interior defensive linemen** (75 players, 9,378 regular-season dropback rushes) each +0.5 yd/s of Combine top speed raises the odds of generating pressure by 22% (OR 1.22, 95% CI 1.12 to 1.34; resampling whole players, 0.99 to 1.42), with weight, arm length, draft slot, draft class, down and distance held fixed. From the 10th to the 90th percentile of speed the adjusted pressure rate moves from 6.3% to 11.4%. The effect survives sensor cleaning (Savitzky-Golay and a 2.5 g limiter), inverse-probability weighting and a Heckman-type control function for selection into the NFL, and a cross-validated expected-pressure context model (POE OR 1.22); a Beta-Binomial shrinkage check is supportive (likelihood-ratio p = 0.003) but its player bootstrap interval (0.93 to 1.34) includes 1. Of 22 robustness checks, only team fixed effects, sacks and the 2024 season alone have intervals touching 1.0. **Out of class, the effect does not hold:** The harder test fails: hiding one whole draft class at a time, adding speed does not improve predictions for the hidden class (log-loss gain -0.48 x 10^-3, 95% CI -1.26 to +0.40; rank correlation 0.32 without speed, 0.25 with). Per class (Fig. 6) the estimate exceeds 1 (2023 1.27, 2024 1.11, 2025 1.24; class difference p = 0.38), only 2023's clustered interval excludes 1, and its player bootstrap (0.98 to 1.60) touches 1; without 2023, OR 1.09 [0.75, 1.57]. The data cannot separate a common effect from a 2023-only one. Imai-Keele-Tingley mediation puts 20% (9% to 43%) of the effect through a faster get-off. **Edge rushers, offensive linemen and WR/TE show no consistent speed effect** (one edge class, 2024, alone gives OR 1.39, player bootstrap 0.90 to 2.03). Speed shortens interior get-off (seconds from the snap until the rusher crosses the line of scrimmage) by 36 ms per +0.5 yd/s (0.14 SD; player bootstrap 20 to 54 ms), the most robust Combine-to-game link in the data, though adding speed does not improve per-snap get-off predictions for a held-out draft class (pre-registered test E23). Drill "first-step" numbers have test-retest reliability of 0.36 to 0.54 and track game speed weakly (r = 0.13, or 0.37 without one outlier trace, against 0.77 for the 40).
 
 ## Headline table
 

diff --git a/project/RESEARCH_LOG.md b/project/RESEARCH_LOG.md
@@ -20,3 +20,9 @@ Primary outcome: player_get_off (standardized), OLS with player-clustered SE + 5
 Secondary: disp_10 (displacement in first 1 s).
 Falsified if: the 2024 or 2025 class bootstrap interval for get-off includes 0, or the sign flips.
 If supported: writeup states that speed reaches the field (get-off) in every class even though pressure itself is precise only in 2023.
+
+## 2026-11-18 E23 pre-registration (written before the run)
+Hypothesis: Combine top speed predicts per-snap get-off for interior rushers in a draft class the model never saw.
+Design: leave-one-class-out; OLS get-off ~ controls (no class FE) with and without speed, fit on two classes, scored on the held-out class; outcome = mean held-out squared-error reduction from adding speed, pooled over the three folds; 95% interval from 1,000 whole-player bootstrap draws over held-out players.
+Falsified if: that interval includes 0 or is negative.
+Also: share of interior dropback rushes with missing get-off and whether speed predicts missingness (survivorship check); pressure p10-p90 ratio interval recomputed from the same 1,000-draw player bootstrap as the OR.
